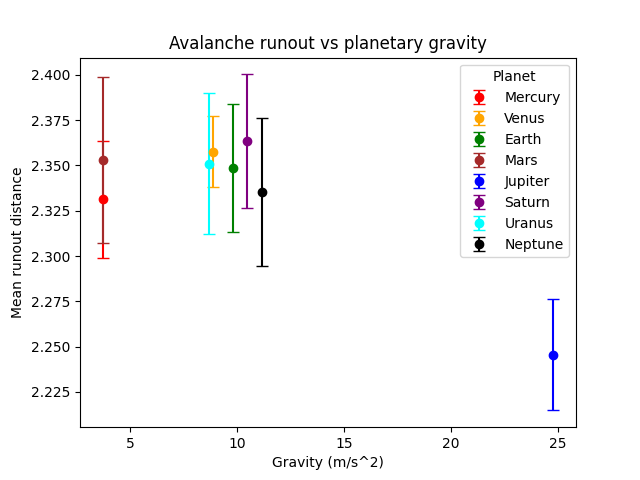
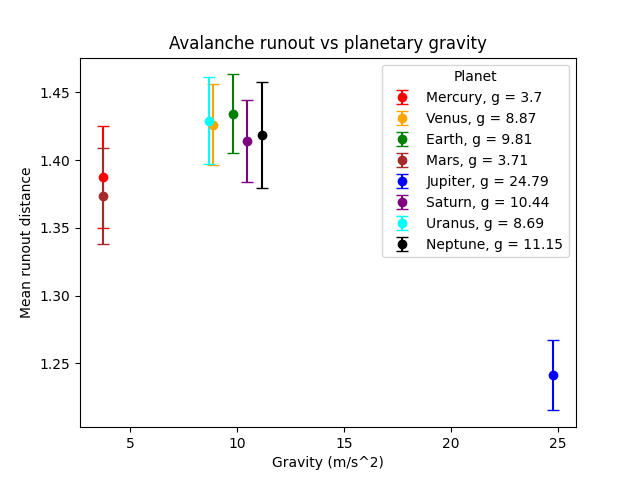
Last before removing static and dynamic

diff --git a/Modeling avalanche.py b/Modeling avalanche.py
@@ -4,6 +4,7 @@ import math
 
 np.random.seed(5)
 
+max_steps = 10000
 static_earth = 47.0
 dynamic_earth = 43.0
 planet_data = [("Mercury", 3.70), ("Venus", 8.87), ("Earth", 9.81), ("Mars", 3.71), ("Jupiter", 24.79), ("Saturn", 10.44), ("Uranus", 8.69), ("Neptune", 11.15)]
@@ -16,7 +17,7 @@ def slope_for_gravity(g):
     dynamic_slope = math.tan(math.radians(dynamic_angle))
     return static_slope, dynamic_slope
 
-#More stones topple if the gravity is higher I think, but I got to find a source?
+#More stones topple if the gravity is lower I think, but I got to find a source?
 def stones_per_topple(g):
     return max(1, int(9.81 / g))
 
@@ -39,12 +40,10 @@ def stones_added(terrain, p):
 
     return terrain
 
+directions = [[0,1], [0, -1], [1, 0], [-1, 0]]
+min_runoff = 2.0
 
-
-
-#We are going to presume that the terrain tilts downwards to the right with a constant angle, to avoid having to model for a bunch of different angles
-
-def propagate_avalanche(terrain, i0, j0, g):
+def propagate_avalanche(terrain, i0, j0, grav):
     """
     Function to propagate the avalanche on a terrain.
     
@@ -54,13 +53,14 @@ def propagate_avalanche(terrain, i0, j0, g):
     i0: First index of the cell where the avalanche occurs
     j0: Second index of the cell where the avalanche occurs
     """
-    n_stones = stones_per_topple(g)
+    n_stones = grav[0]
 
-    static, dynamic = slope_for_gravity(g)
+    static, dynamic = grav[1]
 
     Ni, Nj = terrain.shape #Dimensions of the terrain
 
     if j0 >= Nj - 1:
+        terrain[i0, j0] -= n_stones
         return terrain, 0.0
 
     start = [i0, j0]
@@ -68,9 +68,7 @@ def propagate_avalanche(terrain, i0, j0, g):
 
    
     avalanche  = False
-    directions = [[0,1], [0, -1], [1, 0], [-1, 0]]
-    active_i = []
-    active_j = []
+    active = []
     direction_with_less = []
     for di, dj in directions: 
         ni = i0 + di
@@ -78,21 +76,19 @@ def propagate_avalanche(terrain, i0, j0, g):
         if 0 <= ni < Ni and 0 <= nj < Nj:
             angle = terrain[i0, j0] - terrain[ni, nj]
             if angle > static:
-                terrain[i0, j0] -= n_stones
-                terrain[ni, nj] += n_stones
-                active_i.append(ni)
-                active_j.append(nj)
-                runoff_dist = max(runoff_dist, nj - j0)
+                terrain[i0, j0] -= min(n_stones, terrain[i0, j0] - terrain[ni, nj])
+                terrain[ni, nj] += min(n_stones, terrain[i0, j0] - terrain[ni, nj])
+                active.append((ni, nj))
 
+                runoff_dist = max(runoff_dist, np.sqrt((ni - i0)**2 + (nj - j0)**2))
 
-    while active_i:
-        next_i = []
-        next_j = []
-        for n in np.arange(len(active_i)):
-            i = active_i[n]
-            j = active_j[n]
+    steps = 0
+    while active and steps < max_steps:
+        next = []
+        for i, j in active:
 
             if j >= Nj -1: 
+                terrain[i, j] -= n_stones
                 continue #If we cant go further
 
             
@@ -109,22 +105,22 @@ def propagate_avalanche(terrain, i0, j0, g):
 
                     #To add some randomness, since real granular flow is kind of stiochastic, especially right at the border
 
-                    p_avalanche = min(1, (angle - dynamic) / dynamic)
-                    if np.random.rand() < p_avalanche:
+                    if angle > dynamic:
+                        p_avalanche = mu_fric * min(1, (angle - dynamic) / dynamic) #Friction
+                        if np.random.rand() < p_avalanche:
 
-                        terrain[i, j] -= n_stones
-                        terrain[ni, nj] += n_stones
+                            terrain[i, j] -= min(n_stones, terrain[i, j] - terrain[ni, nj])
+                            terrain[ni, nj] += min(n_stones, terrain[i, j] - terrain[ni, nj])
 
-                        next_i.append(ni)
-                        next_j.append(nj)
+                            next.append((ni, nj))
 
-                        dist = nj - start[1] #Since runout is generally defined as the downlope trravel dist
-                        if dist > runoff_dist:
-                            runoff_dist = dist
+                            dist = np.sqrt((ni - i0)**2 + (j - j0)**2) #Since runout is generally defined as the downlope trravel dist
+                            if dist > runoff_dist:
+                                runoff_dist = dist
+        
 
-            
-        active_i = next_i
-        active_j = next_j 
+        steps += 1    
+        active = next
         
         
     return terrain, runoff_dist
@@ -132,6 +128,7 @@ def propagate_avalanche(terrain, i0, j0, g):
 
 p = 0.01 #Growth probability
 f = 0.2 #New stone probability probability
+mu_fric = 0.6
 
 
 
@@ -143,8 +140,11 @@ all_runouts = {planet: [] for planet, g in planet_data}
 mean_runouts_per_rep = {planet: [] for planet, g in planet_data}
 
 for planet, g in planet_data:
+    print(planet)
+    gravity_factors = [stones_per_topple(g), slope_for_gravity(g)]
 
     for rep in range(repititions):
+        print(rep)
         terrain = np.zeros([size_of_terrain,size_of_terrain]) #Empty terrain
         runoff_dist_list = [] #Empty list of avalanche sizes
 
@@ -163,8 +163,8 @@ for planet, g in planet_data:
                 i0 = np.random.randint(Ni)
                 j0 = np.random.randint(Nj)
 
-                terrain, runoff = propagate_avalanche(terrain, i0, j0, g)
-                if runoff > 0.0:
+                terrain, runoff = propagate_avalanche(terrain, i0, j0, gravity_factors)
+                if runoff >= min_runoff:
                     runoff_dist_list.append(runoff)
                     num_avalanches += 1
 
@@ -203,7 +203,7 @@ for planet, g in planet_data:
         g, mean_val, yerr=std_val,
         fmt='o', capsize=4,
         color=planet_colours[planet],
-        label = planet
+        label = f"{planet}, g = {g}"
     )
 #plt.errorbar(gravities, means, yerr= stds, fmt = 'o', capsize = 4)
 #plt.scatter(gravities, means)
